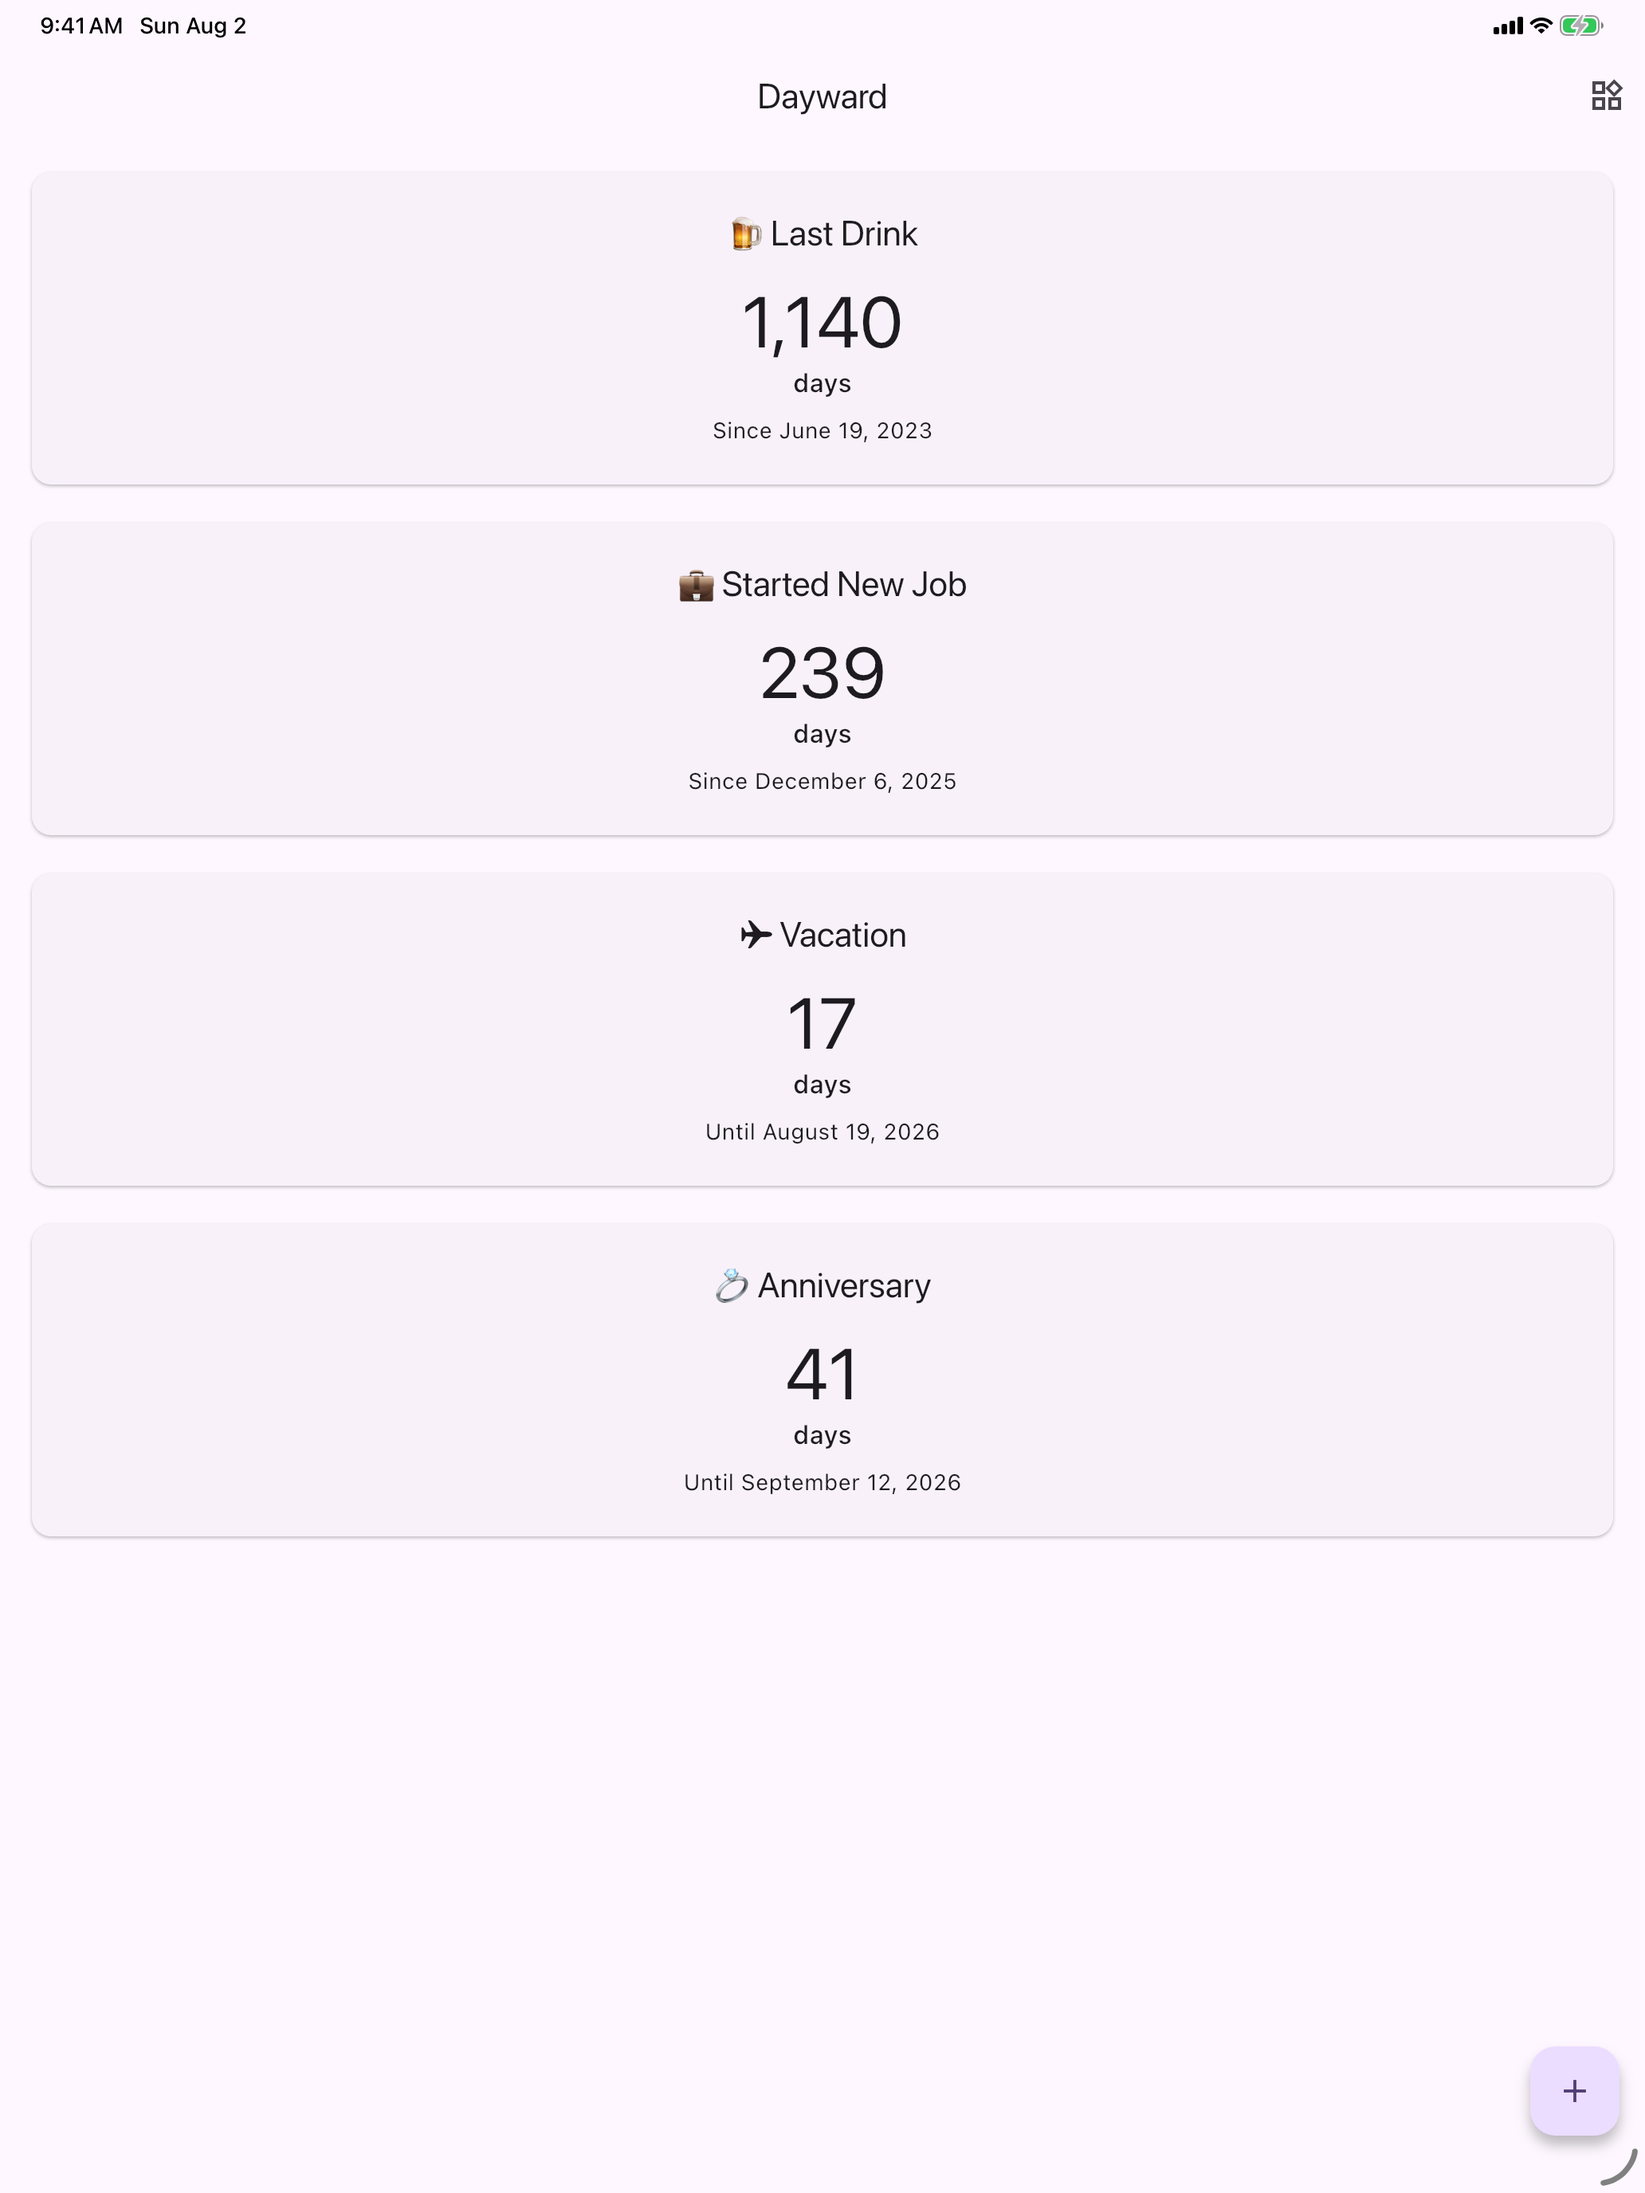
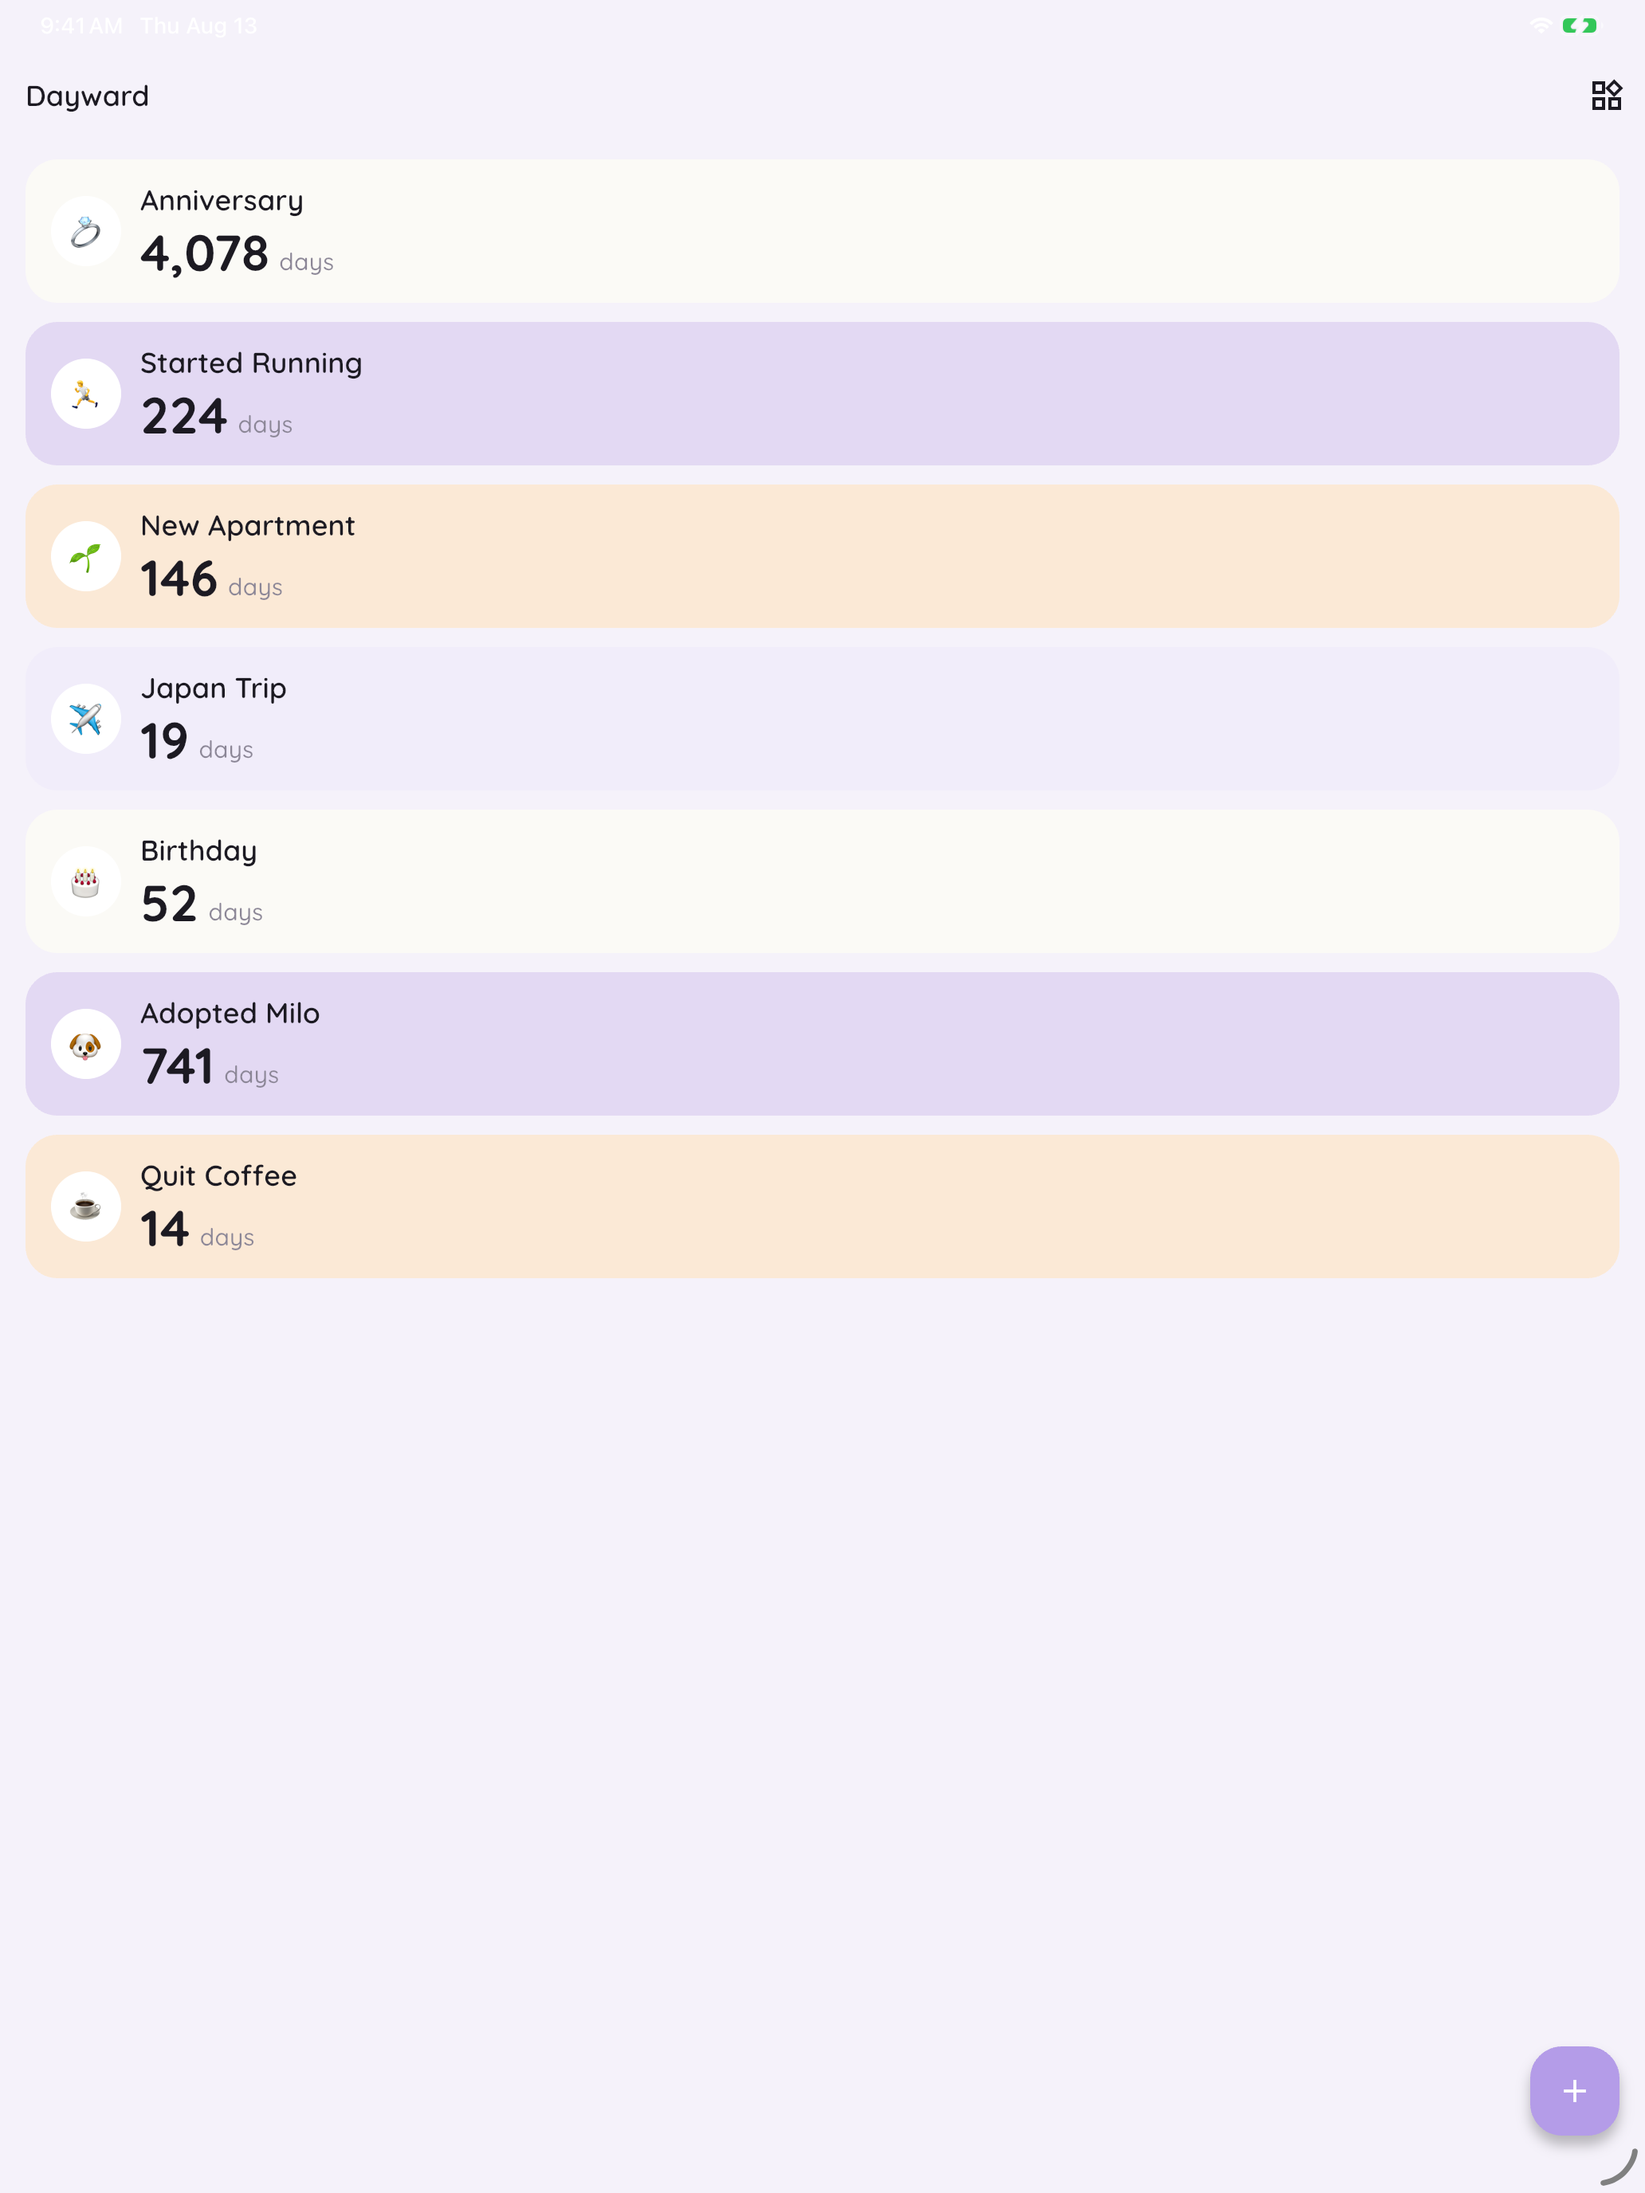
Ship with no seed data; add demo-event tool for store screenshots
New installs now start on the empty state instead of four example
events. The seed list was placeholder data with hard-coded absolute
dates, so a user installing later would have seen countdowns that had
already elapsed.

LocalEventRepository returns an empty (growable — saveEvent mutates the
cache in place) list on first run rather than seeding and persisting.
Repository tests that relied on seed data now create their own event via
a local helper.

Demo data for App Store screenshots moves to tool/seed_demo_events.dart,
a development-only script that writes events.json and
featured_event_id.txt straight into a booted simulator's container. It
picks event ids whose hashCode lands on a chosen card tint, since
EventCard colors cards by `event.id.hashCode % cardTints.length` and
hand-entered events otherwise repeat colors on adjacent cards.
Screenshots for both required device sizes recaptured from that data.

Also replaces the widget's "Last Drink / 1,139" gallery placeholder and
SwiftUI previews with neutral sample data, and aligns the widget
extension's version and build number with pubspec (1.0.1+3) so the
containing app and its extension no longer disagree (ITMS-90473).

diff --git a/tool/seed_demo_events.dart b/tool/seed_demo_events.dart
@@ -1,0 +1,140 @@
+// Writes a fixed set of demo events straight into a booted iOS simulator's
+// app container, for capturing App Store screenshots.
+//
+// This is a development tool. It is not part of the app — the app itself
+// ships with no seed data and starts on the empty state.
+//
+//   dart run tool/seed_demo_events.dart
+//   dart run tool/seed_demo_events.dart --container <path/to/Documents>
+//
+// Terminate-and-relaunch is required: LocalEventRepository caches events in
+// memory, so a running app would overwrite whatever this writes. Relaunching
+// also makes EventsNotifier.build() push the featured event through the
+// widget bridge, so the Home Screen widget picks up the demo data too.
+
+import 'dart:convert';
+import 'dart:io';
+
+import 'package:days_counter/models/date_event.dart';
+import 'package:days_counter/utils/date_calculations.dart';
+
+const bundleId = 'net.leerichardson.dayscounter';
+
+/// AppColors.cardTints.length. Duplicated rather than imported: app_colors.dart
+/// pulls in package:flutter, which a plain `dart run` script can't load.
+const cardTintCount = 4;
+
+/// The demo events, in display order. Dates are absolute rather than
+/// relative to today so the "Since June 14, 2015" lines read like real
+/// events; the day counts drift by however long it's been since this list
+/// was last revised, which doesn't matter for a screenshot.
+final demoEvents = <_Demo>[
+  _Demo('Anniversary', DateTime(2015, 6, 14), CountDirection.since, '💍'),
+  _Demo('Started Running', DateTime(2026, 1, 1), CountDirection.since, '🏃'),
+  _Demo('New Apartment', DateTime(2026, 3, 20), CountDirection.since, '🌱'),
+  _Demo('Japan Trip', DateTime(2026, 9, 1), CountDirection.until, '✈'),
+  _Demo('Birthday', DateTime(2026, 10, 4), CountDirection.until, '🎂'),
+  _Demo('Adopted Milo', DateTime(2024, 8, 2), CountDirection.since, '🐶'),
+  _Demo('Quit Coffee', DateTime(2026, 7, 30), CountDirection.since, '☕'),
+];
+
+/// Which event the widget shows (index into [demoEvents]).
+const featuredIndex = 0;
+
+class _Demo {
+  _Demo(this.title, this.date, this.direction, this.emoji);
+
+  final String title;
+  final DateTime date;
+  final CountDirection direction;
+  final String emoji;
+}
+
+/// EventCard tints its background with `event.id.hashCode % cardTints.length`,
+/// so the id is the only lever over card color. Rather than accept whatever
+/// colors fall out, search for an id that lands on the wanted tint — that way
+/// the screenshot shows every tint, in order, instead of a random run with
+/// two identical cards side by side.
+String _idForTint(int wantedTint, int seed) {
+  for (var attempt = 0; attempt < 100000; attempt++) {
+    final candidate = '${seed + attempt}';
+    if (candidate.hashCode.abs() % cardTintCount ==
+        wantedTint % cardTintCount) {
+      return candidate;
+    }
+  }
+  throw StateError('No id found for tint $wantedTint');
+}
+
+Future<String> _bootedContainerDocuments() async {
+  final result = await Process.run('xcrun', [
+    'simctl',
+    'get_app_container',
+    'booted',
+    bundleId,
+    'data',
+  ]);
+  if (result.exitCode != 0) {
+    stderr.writeln(
+      'Could not find $bundleId on the booted simulator. Boot a simulator '
+      'and run the app there once, or pass --container explicitly.\n'
+      '${result.stderr}',
+    );
+    exit(1);
+  }
+  return '${(result.stdout as String).trim()}/Documents';
+}
+
+Future<void> main(List<String> args) async {
+  final containerFlag = args.indexOf('--container');
+  final documentsPath = containerFlag == -1
+      ? await _bootedContainerDocuments()
+      : args[containerFlag + 1];
+
+  final events = <DateEvent>[];
+  // Distinct id "namespaces" per event so the tint search doesn't return the
+  // same id twice.
+  var seed = 1000000;
+  for (var i = 0; i < demoEvents.length; i++) {
+    final demo = demoEvents[i];
+    final id = _idForTint(i, seed);
+    seed += 100000;
+    events.add(
+      DateEvent(
+        id: id,
+        title: demo.title,
+        date: demo.date,
+        direction: demo.direction,
+        emoji: demo.emoji,
+      ),
+    );
+  }
+
+  // Stop the app first — it holds events in memory and would clobber this.
+  await Process.run('xcrun', ['simctl', 'terminate', 'booted', bundleId]);
+
+  final documents = Directory(documentsPath);
+  await documents.create(recursive: true);
+  await File('${documents.path}/events.json').writeAsString(
+    jsonEncode(events.map((e) => e.toJson()).toList()),
+  );
+  await File(
+    '${documents.path}/featured_event_id.txt',
+  ).writeAsString(events[featuredIndex].id);
+
+  stdout.writeln('Wrote ${events.length} demo events to ${documents.path}');
+  for (var i = 0; i < events.length; i++) {
+    final event = events[i];
+    final days = event.direction == CountDirection.since
+        ? daysSince(event.date)
+        : daysUntil(event.date);
+    final featured = i == featuredIndex ? '  (featured)' : '';
+    stdout.writeln(
+      '  ${event.emoji} ${event.title}: ${dayCountLabel(days)}, '
+      '${event.direction == CountDirection.since ? 'since' : 'until'} '
+      '${formatDate(event.date)}$featured',
+    );
+  }
+  stdout.writeln('\nRelaunch the app to pick these up:');
+  stdout.writeln('  xcrun simctl launch booted $bundleId');
+}

diff --git a/test/local_event_repository_test.dart b/test/local_event_repository_test.dart
@@ -20,9 +20,25 @@ void main() {
   }
 
   group('LocalEventRepository', () {
-    test('getEvents seeds example events on first run', () async {
+    /// Saves an event so tests that need existing data don't depend on
+    /// seed data — first run is intentionally empty.
+    Future<DateEvent> seedOne(
+      LocalEventRepository repository, {
+      String id = 'seed-1',
+    }) async {
+      final event = DateEvent(
+        id: id,
+        title: 'Seeded Event',
+        date: DateTime(2026, 3, 4),
+        direction: CountDirection.since,
+      );
+      await repository.saveEvent(event);
+      return event;
+    }
+
+    test('getEvents returns an empty list on first run', () async {
       final events = await makeRepository().getEvents();
-      expect(events, isNotEmpty);
+      expect(events, isEmpty);
     });
 
     test('saveEvent adds a new event by id', () async {
@@ -44,8 +60,8 @@ void main() {
 
     test('saveEvent overwrites an existing event with the same id', () async {
       final repository = makeRepository();
+      final existing = await seedOne(repository);
       final before = await repository.getEvents();
-      final existing = before.first;
 
       final updated = DateEvent(
         id: existing.id,
@@ -65,8 +81,8 @@ void main() {
 
     test('deleteEvent removes the event with the matching id', () async {
       final repository = makeRepository();
+      final target = await seedOne(repository);
       final before = await repository.getEvents();
-      final target = before.first;
 
       await repository.deleteEvent(target.id);
 

diff --git a/ios/DaysCounterWidget/DaysCounterWidget.swift b/ios/DaysCounterWidget/DaysCounterWidget.swift
@@ -99,7 +99,7 @@ private func loadFeaturedEvent() -> FeaturedEvent? {
 
 struct Provider: TimelineProvider {
     func placeholder(in context: Context) -> SimpleEntry {
-        SimpleEntry(date: Date(), title: "Last Drink", dayCount: 1139, dateLine: "Since June 19, 2023")
+        SimpleEntry(date: Date(), title: "🎉 Birthday", dayCount: 42, dateLine: "Until June 19")
     }
 
     func getSnapshot(in context: Context, completion: @escaping (SimpleEntry) -> ()) {
@@ -251,13 +251,13 @@ struct DaysCounterWidget: Widget {
 #Preview(as: .systemSmall) {
     DaysCounterWidget()
 } timeline: {
-    SimpleEntry(date: .now, title: "Last Drink", dayCount: 1139, dateLine: "Since June 19, 2023")
-    SimpleEntry(date: .now.addingTimeInterval(86400), title: "Last Drink", dayCount: 1140, dateLine: "Since June 19, 2023")
+    SimpleEntry(date: .now, title: "🎉 Birthday", dayCount: 42, dateLine: "Until June 19")
+    SimpleEntry(date: .now.addingTimeInterval(86400), title: "🎉 Birthday", dayCount: 41, dateLine: "Until June 19")
 }
 
 #Preview(as: .systemMedium) {
     DaysCounterWidget()
 } timeline: {
-    SimpleEntry(date: .now, title: "Last Drink", dayCount: 1139, dateLine: "Since June 19, 2023")
-    SimpleEntry(date: .now.addingTimeInterval(86400), title: "Last Drink", dayCount: 1140, dateLine: "Since June 19, 2023")
+    SimpleEntry(date: .now, title: "🎉 Birthday", dayCount: 42, dateLine: "Until June 19")
+    SimpleEntry(date: .now.addingTimeInterval(86400), title: "🎉 Birthday", dayCount: 41, dateLine: "Until June 19")
 }

diff --git a/lib/repositories/local_event_repository.dart b/lib/repositories/local_event_repository.dart
@@ -6,37 +6,6 @@ import 'package:path_provider/path_provider.dart';
 import '../models/date_event.dart';
 import 'event_repository.dart';
 
-List<DateEvent> _seedEvents() => [
-  DateEvent(
-    id: '1',
-    title: 'Last Drink',
-    date: DateTime(2023, 6, 19),
-    direction: CountDirection.since,
-    emoji: '🍺',
-  ),
-  DateEvent(
-    id: '2',
-    title: 'Started New Job',
-    date: DateTime(2025, 12, 6),
-    direction: CountDirection.since,
-    emoji: '💼',
-  ),
-  DateEvent(
-    id: '3',
-    title: 'Vacation',
-    date: DateTime(2026, 8, 19),
-    direction: CountDirection.until,
-    emoji: '✈',
-  ),
-  DateEvent(
-    id: '4',
-    title: 'Anniversary',
-    date: DateTime(2026, 9, 12),
-    direction: CountDirection.until,
-    emoji: '💍',
-  ),
-];
-
 /// Persists events as a JSON file in the app's documents directory. The
 /// [directoryProvider] seam lets tests point this at a temp directory
 /// instead of going through the path_provider platform channel.
@@ -63,10 +32,11 @@ class LocalEventRepository implements EventRepository {
 
     final file = await _eventsFile();
     if (!await file.exists()) {
-      final seeded = _seedEvents();
-      _cache = seeded;
-      await _persist(seeded);
-      return seeded;
+      // First run: start empty so the user builds their own list. Must be a
+      // growable list — saveEvent mutates the cache in place.
+      final empty = <DateEvent>[];
+      _cache = empty;
+      return empty;
     }
 
     final contents = await file.readAsString();
